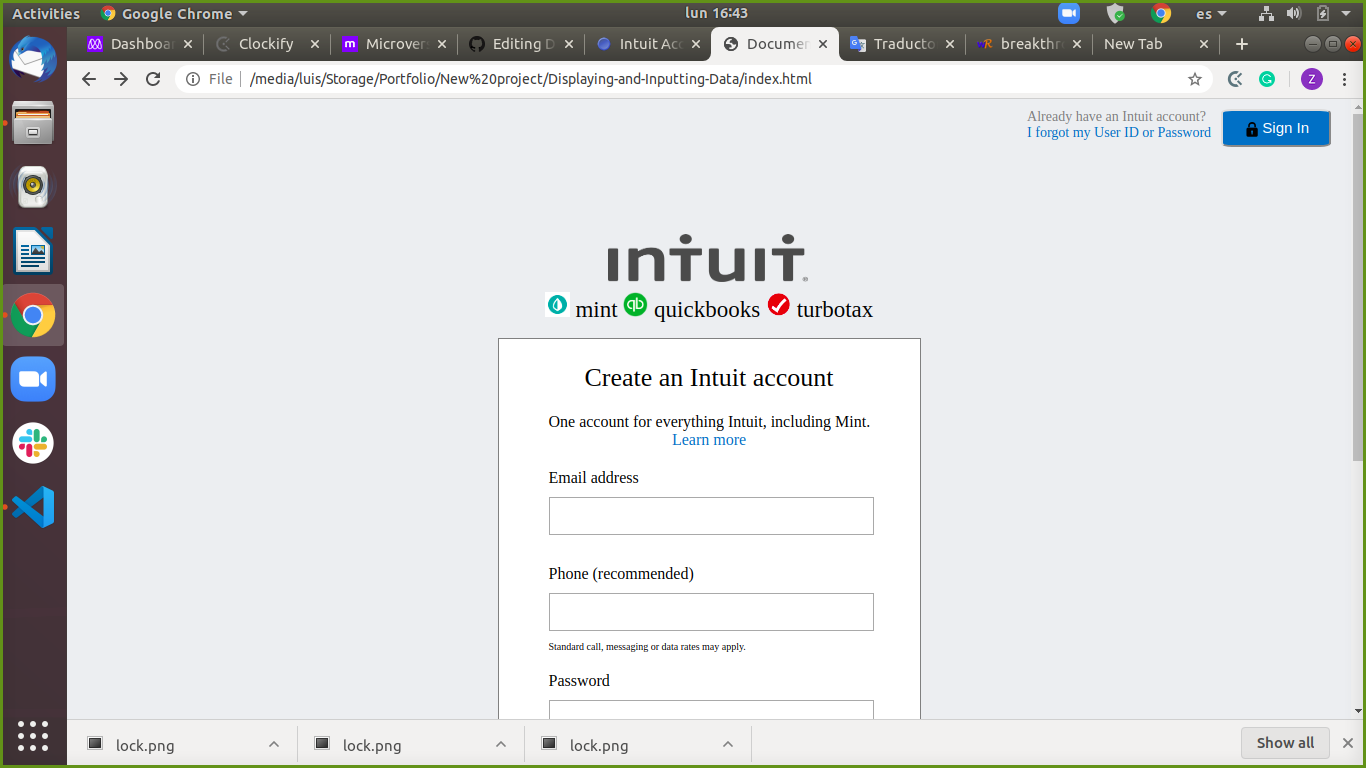
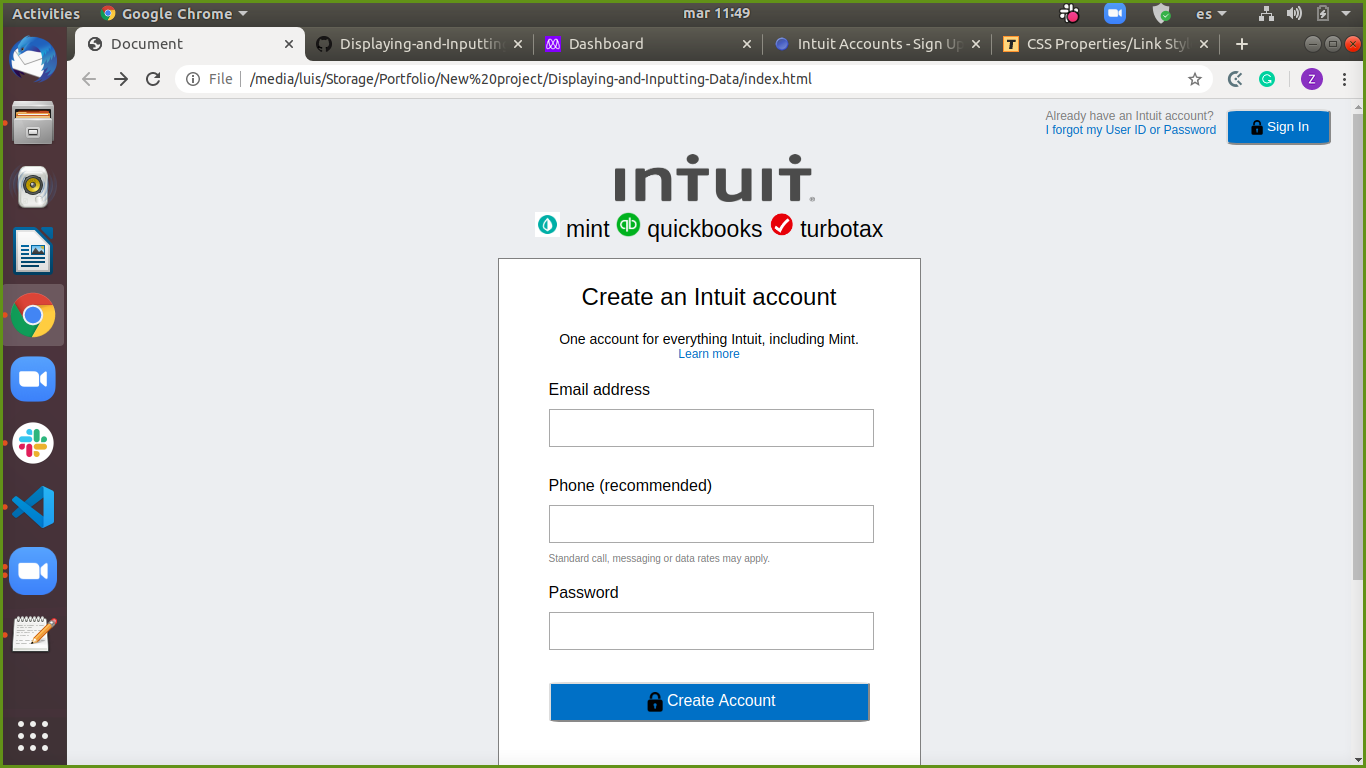
changing size of the box content and adding color to the comments

diff --git a/styles.css b/styles.css
@@ -98,6 +98,7 @@ header {
   border-radius: 1%;
   margin: 0 auto;
   padding: 0 50px;
+  height: 607px;
 }
 
 #box {
@@ -168,6 +169,7 @@ header {
 
 #inCenter {
   text-align: center;
+  color: gray;
 }
 
 /* Footer */
